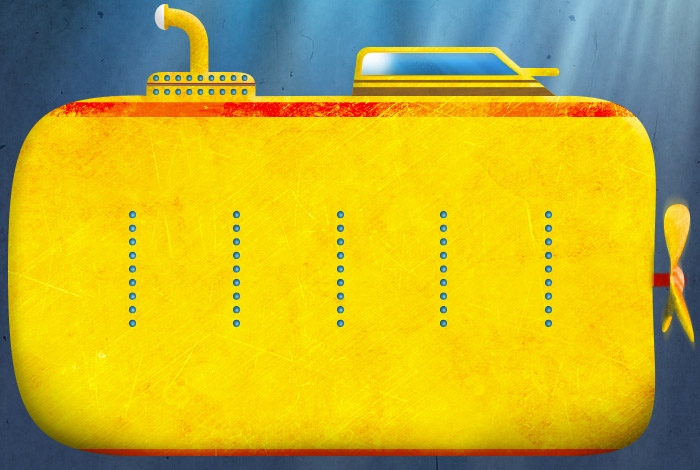
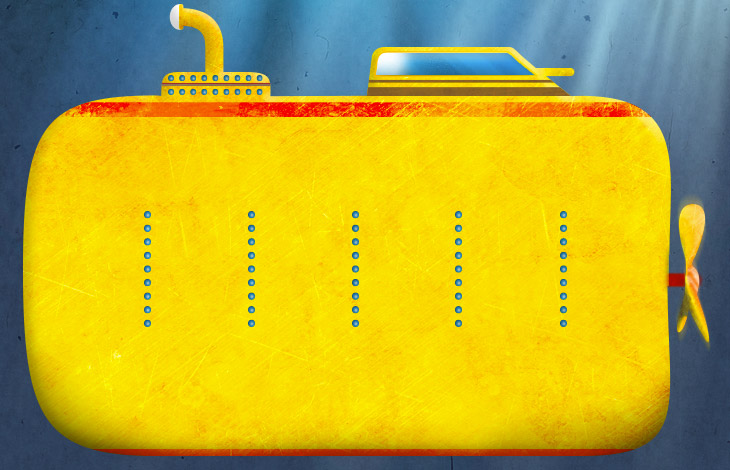
a bit wider sub

diff --git a/angular/app/styles/main.scss b/angular/app/styles/main.scss
@@ -106,22 +106,21 @@ body {
 li { list-style: none; }
 .container { position: relative; text-align: center; }
 .sub {
-  height: 490px;
+  height: 470px;
   position: relative;
   background-image : url('/images/sub.jpg');
   padding-bottom: 3em;
   .row0 {
     position: absolute;
     top: 106px;
-    left: 30px;
     .chair h1 { height:2em !important;  padding-top:0.3em; }
   }
   .row1 {
     position: absolute;
     top: 268px;
-    left: 30px;
   }
   .subs-row {
+    left: 45px;
     height: 14em;
     clear: both;
     // .row1 { clear: both; }
